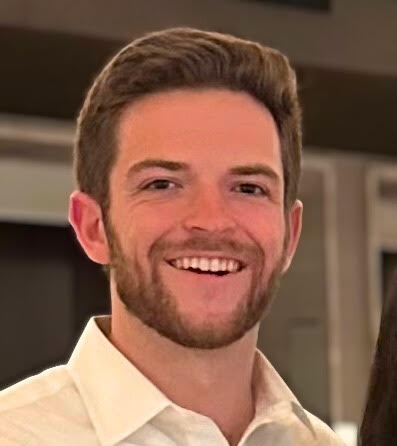
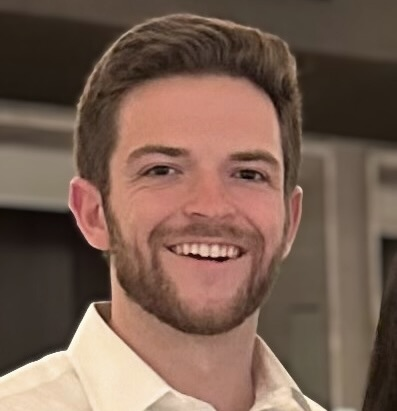
Update pfp, added Lox and descriptions

diff --git a/src/App.tsx b/src/App.tsx
@@ -7,44 +7,114 @@ function App() {
       <header className="header">
         <h1>Peter Majors</h1>
         <div className="nav-links">
-          <a href={process.env.PUBLIC_URL + '/personal/petermajors_resume.pdf'} target="_blank" rel="noopener noreferrer">Resume</a>
-          <span className="nav-sep">|</span>
-          <a href="https://www.linkedin.com/in/petermajors/" target="_blank" rel="noopener noreferrer">LinkedIn</a>
-          <span className="nav-sep">|</span>
-          <a href="https://github.com/peterlmajors" target="_blank" rel="noopener noreferrer">GitHub</a>
+          <a href={process.env.PUBLIC_URL + '/personal/petermajors_resume.pdf'} target="_blank" rel="noopener noreferrer" className="icon-link" title="Resume">
+            <svg xmlns="http://www.w3.org/2000/svg" width="24" height="24" viewBox="0 0 24 24" fill="none" stroke="currentColor" strokeWidth="2" strokeLinecap="round" strokeLinejoin="round">
+              <path d="M14 2H6a2 2 0 0 0-2 2v16a2 2 0 0 0 2 2h12a2 2 0 0 0 2-2V8z"></path>
+              <polyline points="14 2 14 8 20 8"></polyline>
+              <line x1="16" y1="13" x2="8" y2="13"></line>
+              <line x1="16" y1="17" x2="8" y2="17"></line>
+              <polyline points="10 9 9 9 8 9"></polyline>
+            </svg>
+          </a>
+          <a href="https://www.linkedin.com/in/petermajors/" target="_blank" rel="noopener noreferrer" className="icon-link" title="LinkedIn">
+            <svg xmlns="http://www.w3.org/2000/svg" width="24" height="24" viewBox="0 0 24 24" fill="currentColor">
+              <path d="M20.447 20.452h-3.554v-5.569c0-1.328-.027-3.037-1.852-3.037-1.853 0-2.136 1.445-2.136 2.939v5.667H9.351V9h3.414v1.561h.046c.477-.9 1.637-1.85 3.37-1.85 3.601 0 4.267 2.37 4.267 5.455v6.286zM5.337 7.433c-1.144 0-2.063-.926-2.063-2.065 0-1.138.92-2.063 2.063-2.063 1.14 0 2.064.925 2.064 2.063 0 1.139-.925 2.065-2.064 2.065zm1.782 13.019H3.555V9h3.564v11.452zM22.225 0H1.771C.792 0 0 .774 0 1.729v20.542C0 23.227.792 24 1.771 24h20.451C23.2 24 24 23.227 24 22.271V1.729C24 .774 23.2 0 22.222 0h.003z"/>
+            </svg>
+          </a>
+          <a href="https://github.com/peterlmajors" target="_blank" rel="noopener noreferrer" className="icon-link" title="GitHub">
+            <svg xmlns="http://www.w3.org/2000/svg" width="24" height="24" viewBox="0 0 24 24" fill="currentColor">
+              <path d="M12 0c-6.626 0-12 5.373-12 12 0 5.302 3.438 9.8 8.207 11.387.599.111.793-.261.793-.577v-2.234c-3.338.726-4.033-1.416-4.033-1.416-.546-1.387-1.333-1.756-1.333-1.756-1.089-.745.083-.729.083-.729 1.205.084 1.839 1.237 1.839 1.237 1.07 1.834 2.807 1.304 3.492.997.107-.775.418-1.305.762-1.604-2.665-.305-5.467-1.334-5.467-5.931 0-1.311.469-2.381 1.236-3.221-.124-.303-.535-1.524.117-3.176 0 0 1.008-.322 3.301 1.23.957-.266 1.983-.399 3.003-.404 1.02.005 2.047.138 3.006.404 2.291-1.552 3.297-1.23 3.297-1.23.653 1.653.242 2.874.118 3.176.77.84 1.235 1.911 1.235 3.221 0 4.609-2.807 5.624-5.479 5.921.43.372.823 1.102.823 2.222v3.293c0 .319.192.694.801.576 4.765-1.589 8.199-6.086 8.199-11.386 0-6.627-5.373-12-12-12z"/>
+            </svg>
+          </a>
         </div>
       </header>
       <main className="main">
         <section className="intro-flex">
           <img src={process.env.PUBLIC_URL + '/personal/pfp.JPG'} alt="Peter Majors profile" className="profile-pic" />
-          <p>Peter Majors is a developer at Marsh McLennan, building financial applications and research tools with 
-            language models. As a student at Fordham, he performed independent research and competed in case competitions 
-            in sports analytics. </p>
+          <p>
+            Peter Majors is a developer at Marsh McLennan, building financial reporting applications and research tools powered by language models. At Fordham, he 
+            founded and led the Sports Analytics Society for three years - where the group's research efforts sparked his interest in software and data science.
+          </p>
+        </section>
+        <section>
+          <h2>Current Work</h2>
+          <ul>
+            <li>
+              <a href="https://github.com/peterlmajors/lox-genie" target="_blank" rel="noopener noreferrer">Lox Genie (GitHub) (In Development)</a>
+              <ul>
+                <li>Agentic fantasy football consultant, with MCP server and vLLM inference</li>
+              </ul>
+            </li>
+          </ul>
         </section>
         <section>
           <h2>Case Competitions</h2>
           <ul>
-            <li><a href="https://github.com/peterlmajors/Offensive-Linemen-Immediate-Zone" target="_blank" rel="noopener noreferrer">2023 NFL Big Data Bowl (GitHub)</a></li>
-            <li><a href={process.env.PUBLIC_URL + '/case_compeititons/2022%20March%20Data%20Crunch%20Madness.pdf'} target="_blank" rel="noopener noreferrer">2022 Fordham March Data Crunch Madness (PDF)</a></li>
-            <li><a href={process.env.PUBLIC_URL + '/case_compeititons/2022%20Syracuse%20Football%20Analytics%20Blitz.pdf'} target="_blank" rel="noopener noreferrer">2022 Syracuse Football Analytics Blitz (PDF)</a></li>
-            <li><a href={process.env.PUBLIC_URL + '/case_compeititons/2022%20Milwaukee%20Bucks%20Hackathon.pdf'} target="_blank" rel="noopener noreferrer">2022 Milwaukee Bucks Hackathon (PDF)</a></li>
+            <li>
+              <a href="https://github.com/peterlmajors/Offensive-Linemen-Immediate-Zone" target="_blank" rel="noopener noreferrer">2023 NFL Big Data Bowl (GitHub)</a>
+              <ul>
+                <li>Leveraged Next Gen Stats data to model pass-blocking engagements </li>
+              </ul>
+            </li>
+            <li>
+              <a href={process.env.PUBLIC_URL + '/case_compeititons/2022%20March%20Data%20Crunch%20Madness.pdf'} target="_blank" rel="noopener noreferrer">2022 Fordham March Data Crunch Madness (PDF)</a>
+              <ul>
+                <li>Developed classification model to predict win probabilities for 2022 Men's March Madness </li>
+              </ul>
+            </li>
+            <li>
+              <a href={process.env.PUBLIC_URL + '/case_compeititons/2022%20Syracuse%20Football%20Analytics%20Blitz.pdf'} target="_blank" rel="noopener noreferrer">2022 Syracuse Football Analytics Blitz (PDF)</a>
+              <ul>
+                <li>Created defensive game plan to counter Chiefs' 2021 offense using play-by-play data</li>
+              </ul>
+            </li>
+            <li>
+              <a href={process.env.PUBLIC_URL + '/case_compeititons/2022%20Milwaukee%20Bucks%20Hackathon.pdf'} target="_blank" rel="noopener noreferrer">2022 Milwaukee Bucks Hackathon (PDF)</a>
+              <ul>
+                <li>Devised shot difficulty metric to identify NBA's most efficient three-point shooters</li>
+              </ul>
+            </li>
           </ul>
         </section>
         <section>
           <h2>Research</h2>
           <ul>
             {/* <li><a href={process.env.PUBLIC_URL + "/research/Quantifying%20The%20Different%20Look.pdf"} target="_blank" rel="noopener noreferrer">Quantifying The Different Look (PDF)</a></li> */}
-            <li><a href="https://fordhamsas.wixsite.com/website/post/what-makes-a-cy-a-study-of-volume-and-efficiency-in-cy-young-voting" target="_blank" rel="noopener noreferrer">What Makes A Cy? A Study in Volume and Efficiency (Blog)</a></li>
-            <li><a href="https://fordhamsas.wixsite.com/website/post/the-yankees-2021-rotation-a-study-in-tommy-john-recovery" target="_blank" rel="noopener noreferrer">The Yankees 2021 Rotation: A Study in Tommy John Recovery (Blog)</a></li>
-            <li><a href="https://fordhamsas.wixsite.com/website/post/the-wild-and-wacky-2020-mlb-season-which-statistics-can-we-trust" target="_blank" rel="noopener noreferrer">The Wild 2020 MLB Season: Which Statistics Can We Trust? (Blog)</a></li>
-            <li><a href="https://fordhamsas.wixsite.com/website/post/how-anyone-can-calculate-league-normalized-statistics-ops-and-wrc" target="_blank" rel="noopener noreferrer">How Truly Anyone Can Calculate League Normalized Stats (Blog)</a></li>
-
+            <li>
+              <a href="https://fordhamsas.wixsite.com/website/post/what-makes-a-cy-a-study-of-volume-and-efficiency-in-cy-young-voting" target="_blank" rel="noopener noreferrer">What Makes A Cy? A Study in Volume and Efficiency (Blog)</a>
+              <ul>
+                <li>Explored the evolution of MLB CY Young voting preferences over the past 70 years</li>
+              </ul>
+            </li>
+            <li>
+              <a href="https://fordhamsas.wixsite.com/website/post/the-yankees-2021-rotation-a-study-in-tommy-john-recovery" target="_blank" rel="noopener noreferrer">The Yankees 2021 Rotation: A Study in Tommy John Recovery (Blog)</a>
+              <ul>
+                <li>Analyzed the impact of Tommy John surgery on MLB pitcher statistics</li>
+              </ul>
+            </li>
+            <li>
+              <a href="https://fordhamsas.wixsite.com/website/post/the-wild-and-wacky-2020-mlb-season-which-statistics-can-we-trust" target="_blank" rel="noopener noreferrer">The Wild 2020 MLB Season: Which Statistics Can We Trust? (Blog)</a>
+              <ul>
+                <li>Assessed the reliability of MLB hitting statistics from the abbreviated 2020 season</li>
+              </ul>
+            </li>
+            <li>
+              <a href="https://fordhamsas.wixsite.com/website/post/how-anyone-can-calculate-league-normalized-statistics-ops-and-wrc" target="_blank" rel="noopener noreferrer">How Truly Anyone Can Calculate League Normalized Stats (Blog)</a>
+              <ul>
+                <li>Tutorial on calculating OPS+ and WRC+ for non-professional baseball leagues</li>
+              </ul>
+            </li>
           </ul>
         </section>
         <section>
           <h2>Study Materials</h2>
           <ul>
-            <li><a href="https://www.notion.so/LLM-Resources-1b2c8885d18f8011b438d7b38c48331e?pvs=21" target="_blank" rel="noopener noreferrer">Large Language Models (Notion Site)</a></li>
+            <li>
+              <a href="https://www.notion.so/LLM-Resources-1b2c8885d18f8011b438d7b38c48331e?pvs=21" target="_blank" rel="noopener noreferrer">Large Language Models (Notion Site)</a>
+              <ul>
+                <li>Personal collection of blogs and research papers on LLMs and deep learning</li>
+              </ul>
+            </li>
           </ul>
         </section>
       </main>

diff --git a/src/App.css b/src/App.css
@@ -8,28 +8,28 @@ body, .main-bg {
 .header {
   background: #111;
   color: #fff;
-  padding: 32px 0 24px 0;
+  padding: 32px 0 16px 0;
   text-align: center;
   letter-spacing: 1px;
   box-shadow: 0 2px 12px rgba(0, 0, 0, 0.08);
   border-bottom: 4px solid #ffb366; /* orange accent */
 }
 .header h1 {
-  margin: 0 0 8px 0;
+  margin: 0 0 12px 0;
   font-size: 2.5rem;
   font-weight: 700;
   text-shadow: 0 2px 8px rgba(135, 208, 245, 0.08);
   letter-spacing: 2px;
 }
 .nav-links {
-  margin: 0 0 8px 0;
+  margin: 0;
 }
 .nav-links a {
   color: #fff;
   text-decoration: none;
   margin: 0 18px;
   font-weight: 500;
-  font-size: 1.1rem;
+  font-size: 1.2rem;
   padding: 2px 8px;
   border-radius: 4px;
 }
@@ -39,13 +39,27 @@ body, .main-bg {
 .nav-links a:hover {
   color: #dddddd;
 }
+.nav-links .icon-link {
+  display: inline-flex;
+  align-items: center;
+  justify-content: center;
+  padding: 4px;
+  margin: 0 12px;
+  transition: all 0.3s ease;
+}
+.nav-links .icon-link:hover {
+  opacity: 0.8;
+}
+.nav-links .icon-link svg {
+  display: block;
+}
 .nav-sep {
   color: #87d0f5;
 }
 .main {
   background: #fff;
   width: calc(90vw - 10%);
-  max-width: 900px;
+  max-width: 750px;
   margin: 36px auto 0 auto;
   margin-bottom: 36px;
   padding: 32px 24px 48px 24px;
@@ -86,6 +100,9 @@ a:hover {
   margin-bottom: 20px;
   flex-wrap: nowrap;
 }
+.intro-flex p {
+  font-size: 1.05rem;
+}
 .profile-pic {
   display: block;
   margin: 0;
@@ -124,7 +141,7 @@ a:hover {
     flex-shrink: 0;
   }
   .intro-flex p {
-    font-size: 0.95rem;
+    font-size: 1.05rem;
     line-height: 1.4;
     flex: 1;
     min-width: 0;
